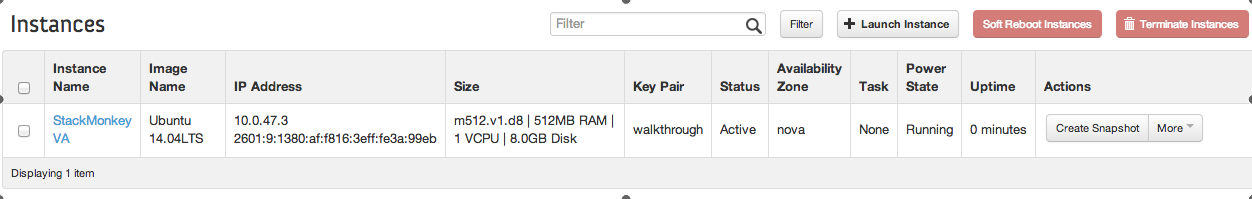
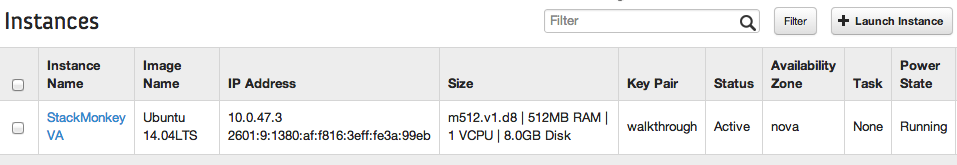
readme images

diff --git a/README.md b/README.md
@@ -130,8 +130,7 @@ Click on the **Launch** button to launch the appliance.  You can monitor the ins
 ### Configuration
 The takes about 10 minutes to build.  Once the appliance is running, you can access it by its IP address.  This can be found in the Horizon UI of OpenStack, next to the instance.  Here's an example:
 
-
-
+[![Appliance IPs](https://raw.githubusercontent.com/StackMonkey/utter-va/master/webapp/static/img/readme/appliance_ip.png =512x)](https://raw.githubusercontent.com/StackMonkey/utter-va/master/webapp/static/img/readme/appliance_ip.png)
 
 Type a similar URL in your browser to bring up the StackMonkey VA:
 
